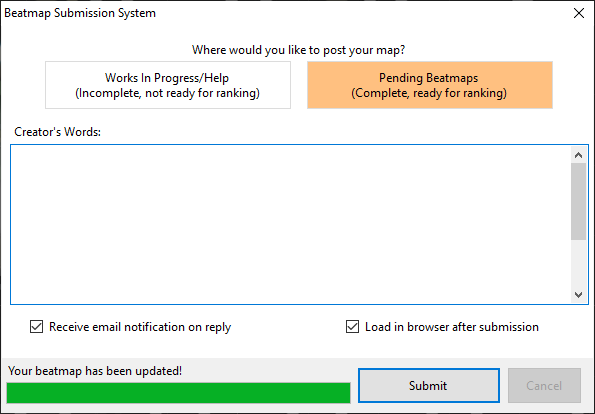
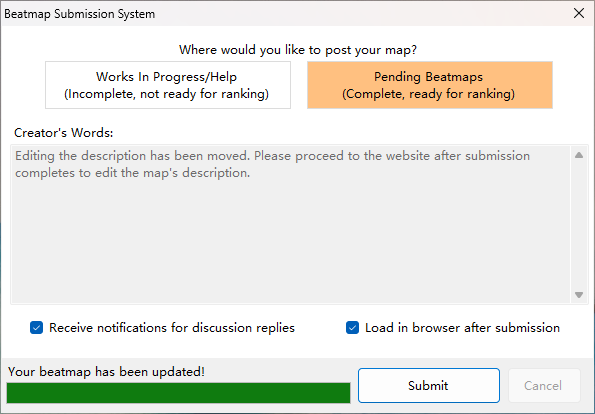
Update `Beatmap submission` around disabled `Creator's Words` (#15096)

diff --git a/wiki/Beatmapping/Beatmap_submission/en.md b/wiki/Beatmapping/Beatmap_submission/en.md
@@ -18,7 +18,7 @@ If the beatmap a user is uploading is not already on the osu! website, the BSS w
 
 When clicking the `Upload NEW Beatmap!` or `Update Beatmap!` button, a user will be presented with the choice of uploading their beatmap to the `Work In Progress/Help` or `Pending Beatmaps` categories. WIP beatmaps cannot be nominated for ranking, while pending beatmaps can.
 
-The `Creator's Words` section allows for user input that appears alongside the beatmap's website listing page. This supports [BBCode](/wiki/BBCode) formatting.
+The `Creator's Words` section was used to edit the [beatmap description](/wiki/Beatmap/Beatmap_description), and is disabled since [Stable 20251128.1](https://osu.ppy.sh/home/changelog/stable40/20251128.1). The description could still be edited from the website after beatmap submission.
 
 Two checkboxes appear near the bottom of the window. The first says `Receive email notification on reply`, which adds the beatmap to the user's [modding watchlist](https://osu.ppy.sh/beatmapsets/watches). The second says `Load in browser after submission`, which will load the beatmap's listing page in your default browser.
 
